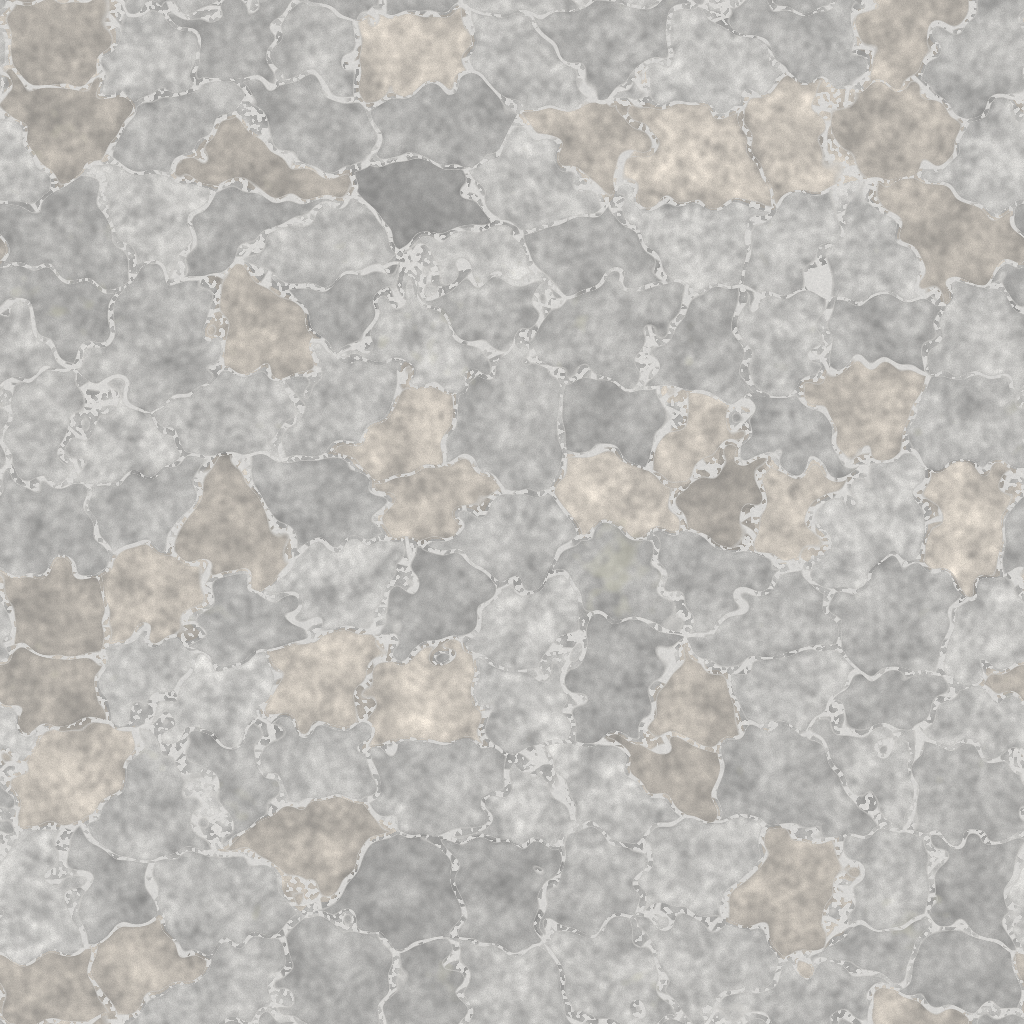
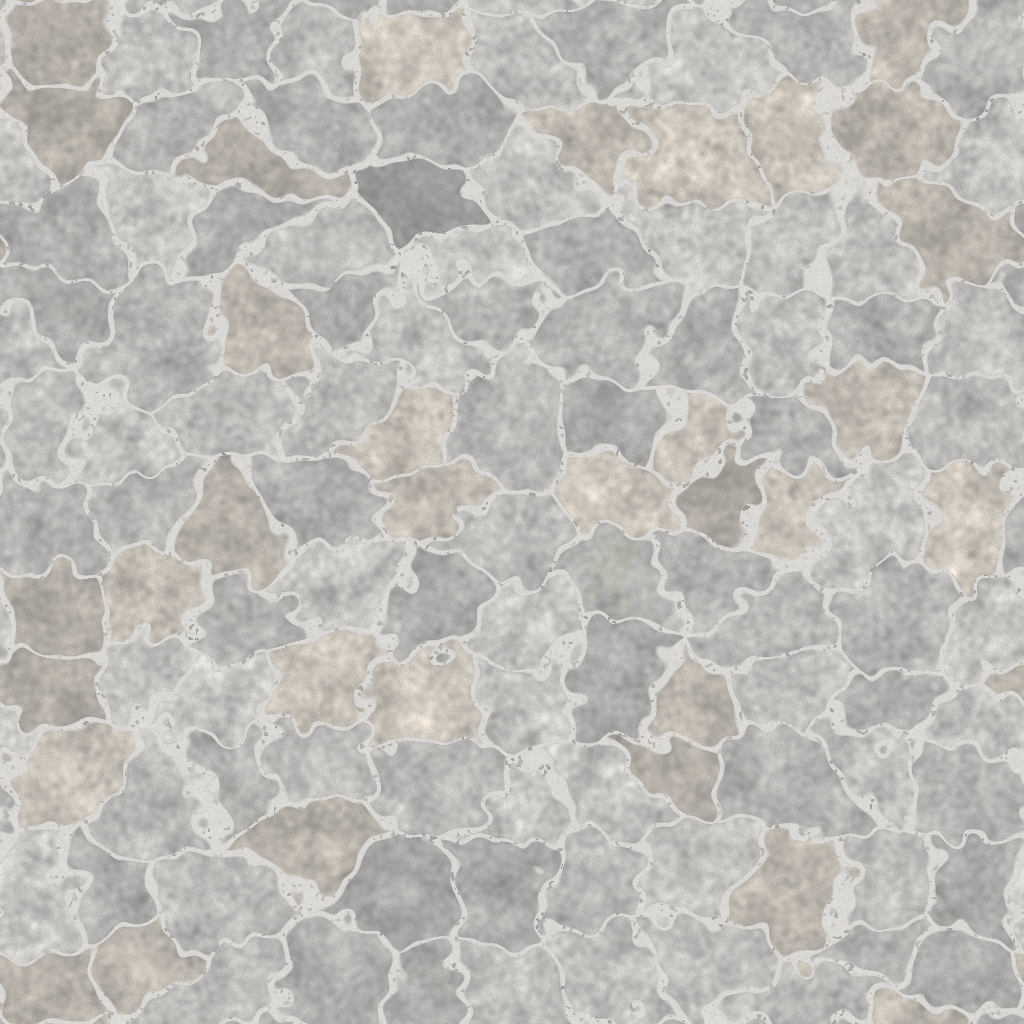
Kit polish: calmer rubble, painted shop signs, textures warm at world setup
Claude-Session: https://claude.ai/code/session_01DvbwAiL51ZWUaExJFqdGc8

diff --git a/world/mapgen/facades.py b/world/mapgen/facades.py
@@ -200,13 +200,13 @@ def mat_rubble(seed=41):
     edge2, cid2, _ = cells(seed + 20, 900, stretch=(1.3, 1.0), warp=3, warp_seed=seed + 21)
     mortar_w = 3.0 + 1.5 * n01(fbm(seed + 2, 1.5, 4, 60))
     big = np.clip((edge - mortar_w) / 2.5, 0, 1)
-    small = np.clip((edge2 - 2.5) / 2.0, 0, 1) * (1 - big) * (edge < mortar_w + 1.5) * (fbm(seed + 22, 1.0, 20, 200) > -0.3)
+    small = np.clip((edge2 - 2.5) / 2.0, 0, 1) * (1 - big) * (edge < mortar_w + 1.5) * (fbm(seed + 22, 1.0, 20, 200) > 1.2)
     stone = np.maximum(big, small)
     bulge = np.clip((edge - mortar_w) / 30.0, 0, 1) ** 0.6
     r = hash01(cid, seed); r2 = hash01(cid, seed + 5)
     rs = hash01(cid2, seed + 7)
     rr = np.where(big > 0.5, r, rs)
-    h = big * bulge * (0.02 + 0.025 * r) + small * 0.008 + fbm(seed + 3, 2.0, 6, 200) * 0.002
+    h = big * bulge * (0.012 + 0.012 * r) + small * 0.005 + fbm(seed + 3, 2.2, 6, 120) * 0.0015
     h = h * stone + (-0.01 + fbm(seed + 4, 1.0, 40) * 0.0015) * (1 - stone)
     base = 0.5 + 0.17 * rr
     col = np.stack([base, base * 0.99, base * 0.965], -1)
